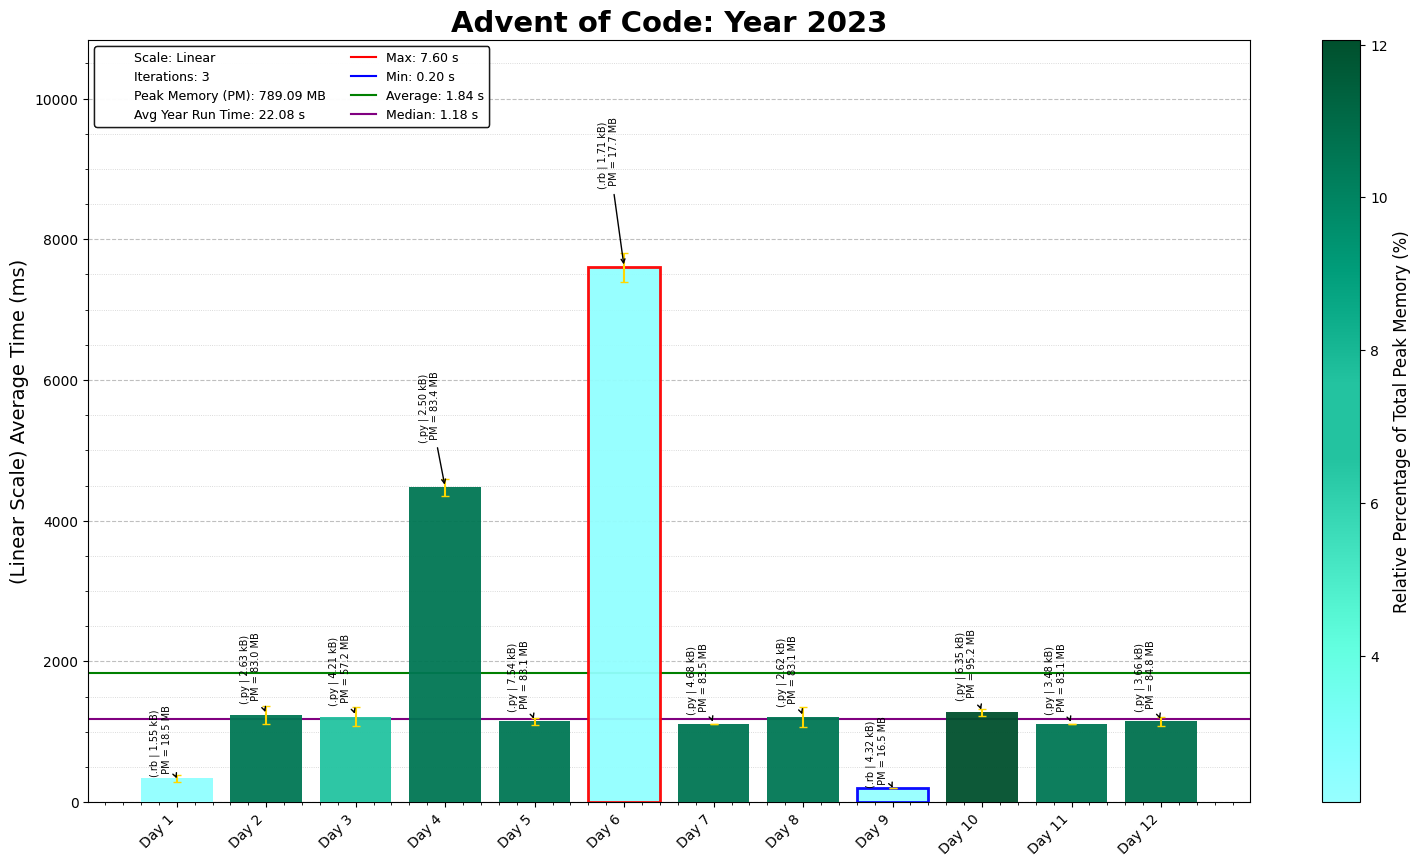
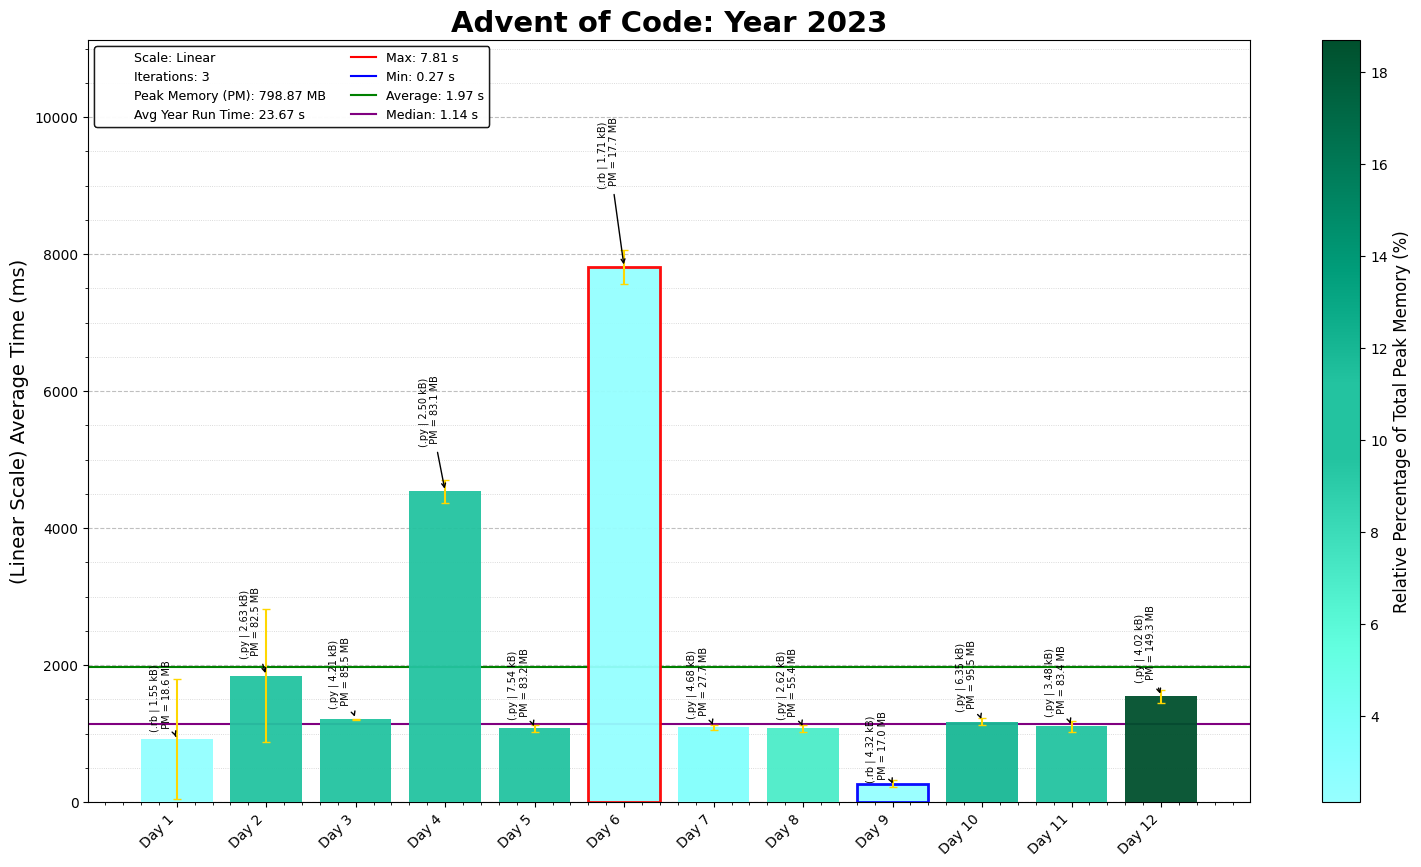
2023 Day 12 P2

diff --git a/2023/12/2023Day12.py b/2023/12/2023Day12.py
@@ -7,11 +7,12 @@ Brief: [Filling the blanks]
 
 #!/usr/bin/env python3
 
-import os, re, copy, functools
+import os, re, copy, sys, functools, time
 import numpy as np
 import pandas as pd
 import matplotlib.pyplot as plt
-
+start_time = time.time()
+sys.setrecursionlimit(10**7)
 # Load the input data from the specified file path
 D12_file = "Day12_input.txt"
 D12_file_path = os.path.join(os.path.dirname(os.path.abspath(__file__)), D12_file)
@@ -32,13 +33,6 @@ def parse_input(input_list: list[str]) -> list[tuple]:
 def count_spring_arrangements(spring_record: str, group_sizes: tuple) -> int:
     """
     Calculate the number of valid spring arrangements given a spring record and group sizes.
-
-    Parameters:
-        spring_record (str): The record of springs and separators ('#', '.', or '?').
-        group_sizes (tuple): A tuple of integers representing group sizes.
-
-    Returns:
-        int: The number of valid arrangements.
     """
     # If no group sizes are left, validate the spring record.
     if not group_sizes:
@@ -89,13 +83,20 @@ def count_spring_arrangements(spring_record: str, group_sizes: tuple) -> int:
 
     return result
 
-
-test_input = ['???.### 1,1,3', '.??..??...?##. 1,1,3', '?#?#?#?#?#?#?#? 1,3,1,6', '????.#...#... 4,1,1', '????.######..#####. 1,6,5', '?###???????? 3,2,1']
+def unfold_springs(init_springs: str, init_order: tuple, expand_len: int) -> tuple[str, tuple]:
+    new_springs = ((init_springs + '?') * (expand_len - 1)) + init_springs
+    new_order = tuple(list(init_order) * expand_len)
+    return new_springs, new_order
 
 spring_list = parse_input(input_data)
 
-total_combos = 0
-for springs, group_order in spring_list[:]:
-    spring_combo = count_spring_arrangements(springs, group_order)
-    total_combos += spring_combo
-print("Part 1:", total_combos)
+combos_p1, combos_p2 = 0, 0
+for init_springs, init_order in spring_list[:]:
+    combos_p1 += count_spring_arrangements(init_springs, init_order)
+    full_springs, full_order = unfold_springs(init_springs, init_order, expand_len=5)
+    combos_p2 += count_spring_arrangements(full_springs, full_order)
+
+print("Part 1:", combos_p1)
+print("Part 2:", combos_p2)
+
+# print(time.time() - start_time)
